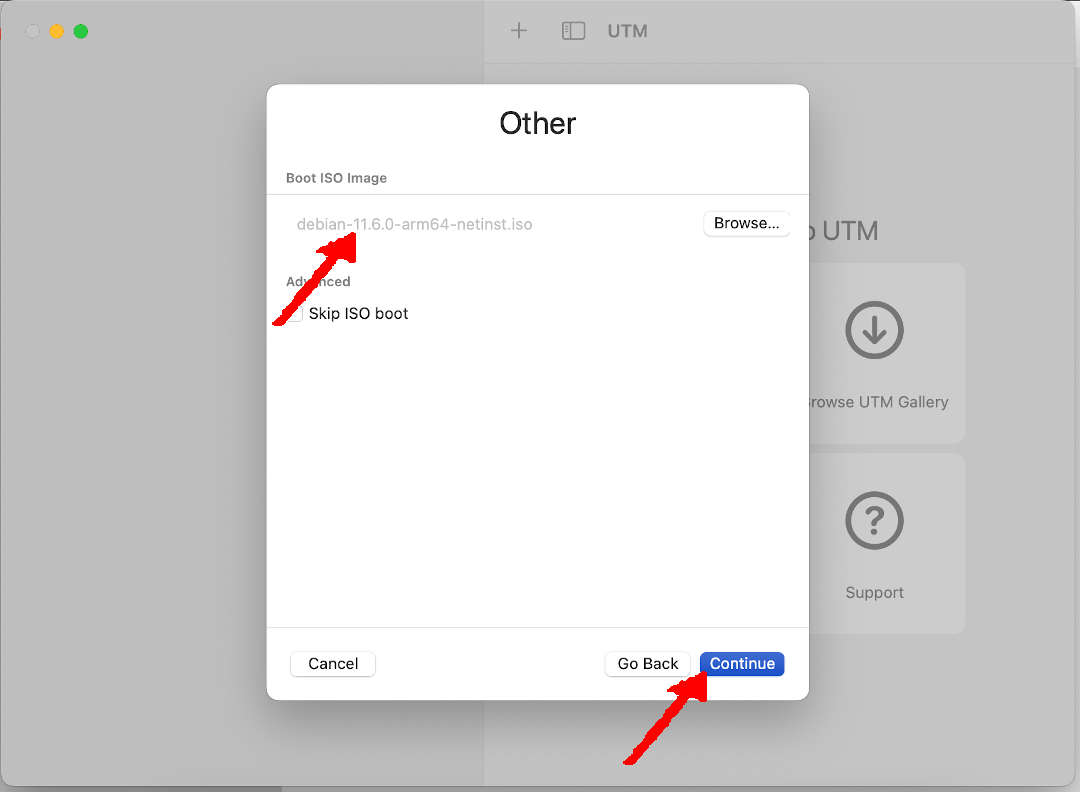
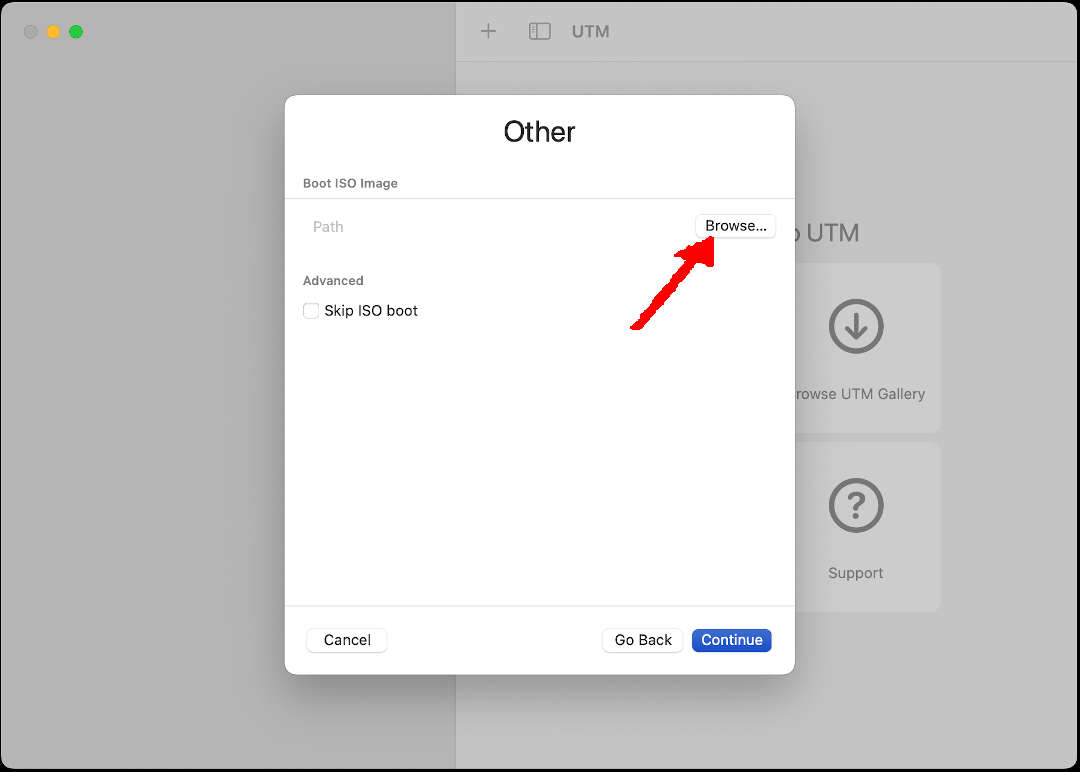
new file:   assets/images/

Changed region(s): [[0.0, 0.0, 1.0, 1.0], [0.4889, 0.0, 0.6111, 0.0622], [0.0, 0.0, 0.0917, 0.0622]]

diff --git a/009.md b/009.md
@@ -9,8 +9,13 @@ tagline: M1, Apple, Mac, UTM, Install Debian
 ## Table of Content
 * [Debian ISO Image](#idx000-1)
 * [UTM for MacOS Apple Silicon](#idx000-2)
-* [Installing UTM](#idx000-3)
-* [New Virtual Machine](#idx001)
+  * [Installing UTM](#idx000-3)
+  * [New Virtual Machine](#idx001)
+  * [Hardware](#idx005)
+  * [Storage](#idx006)
+  * [Shared Directory](#idx007)
+  * [Summary](#idx008)
+* [Fine tuning a Virtual Guest](#idx009)
 
 [&#x213C;](#)<br id="idx000-1">
 ## Debian ISO Image
@@ -36,7 +41,7 @@ Download the latest version of UTM for MacOS Apple Silicon from:
 
 [&#x213C;](#)<br id="idx000-3">
 
-## Installing UTM
+### Installing UTM
 
 Install "UTM.dmg" by placing "UTM" into the "Application" folder.
 
@@ -50,7 +55,7 @@ In this example, the UTM version is 4.5.3 (5 Aug 2023)
 
 [&#x213C;](#)<br id="idx001">
 
-## New Virtual Machine
+### New Virtual Machine
 
 * Click "Create a New Virtual Machine"
 
@@ -58,35 +63,74 @@ In this example, the UTM version is 4.5.3 (5 Aug 2023)
 
 [&#x213C;](#)<br id="idx002">
 
-* Select: "Other"
+* Start, select: "Virtualize"
 
 <img src="{{ site.baseurl }}/assets/images/debM1-002.jpg" style="width:960px;"><br><br>
 
 [&#x213C;](#)<br id="idx003">
 
+* Operating System, select: "Other"
+
 <img src="{{ site.baseurl }}/assets/images/debM1-003.jpg" style="width:960px;"><br><br>
 
 [&#x213C;](#)<br id="idx004">
 
+* Other, select: "Browse"
+
 <img src="{{ site.baseurl }}/assets/images/debM1-004.jpg" style="width:960px;"><br><br>
 
+* Open the Debian ISO image
+  * This example will use the version "debian-12.1.0-arm64-netinst.iso"
+
+<img src="{{ site.baseurl }}/assets/images/debM1-004-1.jpg" style="width:960px;"><br><br>
+
+* Continue
+
+<img src="{{ site.baseurl }}/assets/images/debM1-004-2.jpg" style="width:960px;"><br><br>
+
 [&#x213C;](#)<br id="idx005">
+
+### Hardware
+
+* Memory: 4096 MB
+  * Or more, if available.
+* CPU Cores: default
 
 <img src="{{ site.baseurl }}/assets/images/debM1-005.jpg" style="width:960px;"><br><br>
 
 [&#x213C;](#)<br id="idx006">
 
+### Storage
+
+* Size: 24 GB
+
 <img src="{{ site.baseurl }}/assets/images/debM1-006.jpg" style="width:960px;"><br><br>
 
 [&#x213C;](#)<br id="idx007">
+
+### Shared Directory
+
+* Continue
 
 <img src="{{ site.baseurl }}/assets/images/debM1-007.jpg" style="width:960px;"><br><br>
 
 [&#x213C;](#)<br id="idx008">
 
+### Summary
+
+* Name (e.g.): UDEB-00-BLANK
+  * You might apply alternate names.
+* Save
+
 <img src="{{ site.baseurl }}/assets/images/debM1-008.jpg" style="width:960px;"><br><br>
 
 [&#x213C;](#)<br id="idx009">
+
+## Fine tuning a Virtual Machine (VM)
+
+* Edit Selected VM
+  * Select VM: UDEB-00-BLANK (left)
+  * Clink: Top Right Corner 
 
 <img src="{{ site.baseurl }}/assets/images/debM1-009.jpg" style="width:960px;"><br><br>
 

diff --git a/004.md b/004.md
@@ -84,7 +84,7 @@ all: $(MD_FILES) .siteHack
 ### _config.yml
 
 ```
-version:          "0121a--17-Aug-2023"
+version:          "0122--18-Aug-2023"
 copyright:        "2021-2023"
 title:            "This Is How Me Do It!"
 author:           "C. BinKadal"
